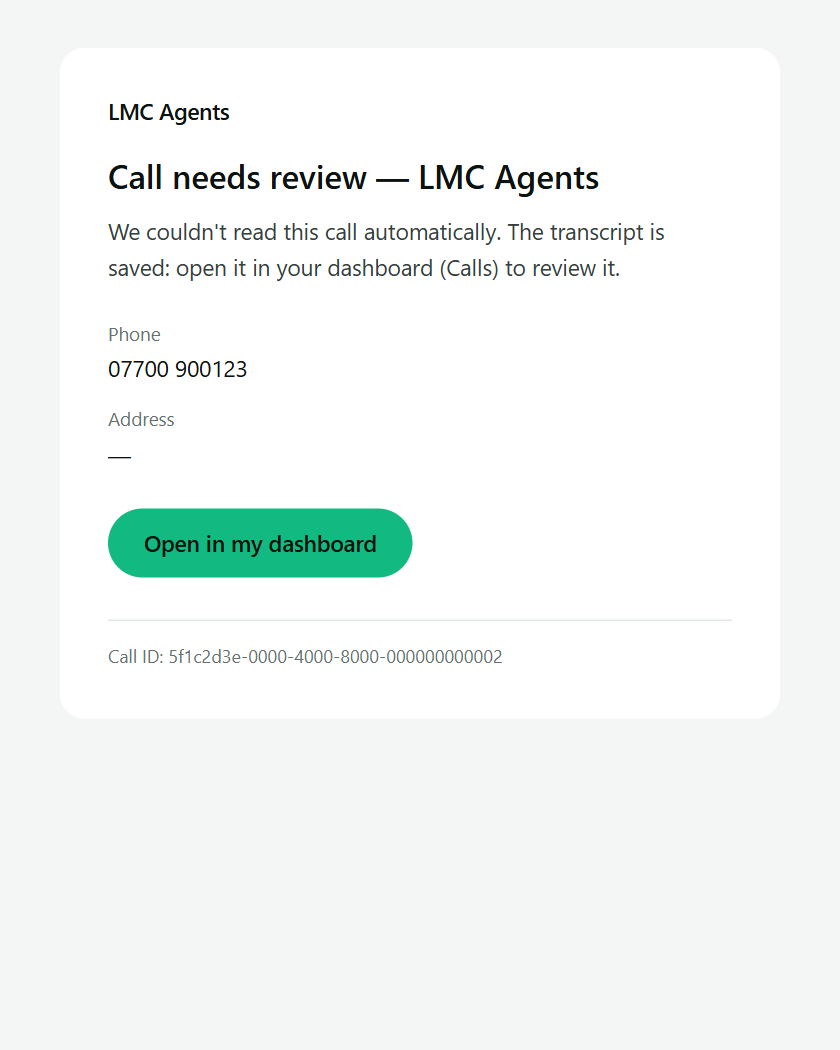
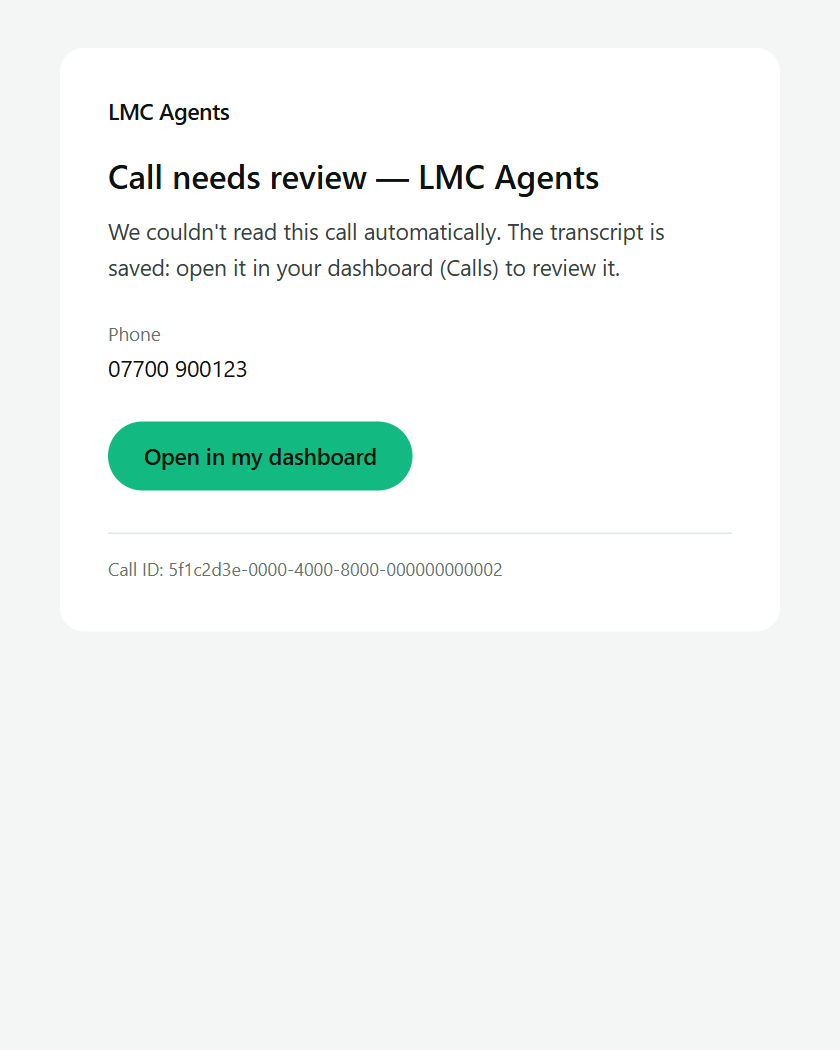
Review email: no Address row (nothing was extracted, it was always a dash)
The extraction-failed email drops the Address row in EN/ES/FR; the normal and urgent emails keep it. Test and the three needs-review previews updated (91 backend tests pass).

Changed region(s): [[0.1238, 0.3962, 0.5881, 0.5486], [0.1238, 0.6095, 0.5881, 0.64]]

diff --git a/docs/email-previews/fr-needs-review.html b/docs/email-previews/fr-needs-review.html
@@ -15,7 +15,7 @@
         
         <tr><td style="font-size:22px;font-weight:600;line-height:1.25;padding-bottom:10px;">Appel à vérifier — LMC Agents</td></tr>
         <tr><td style="font-size:15px;line-height:1.6;color:#33403b;padding-bottom:24px;">Nous n’avons pas pu analyser cet appel automatiquement. La transcription est enregistrée : ouvrez-la dans votre tableau de bord (Appels) pour la relire.</td></tr>
-        <tr><td style="padding-bottom:14px;"><div style="font-size:12.5px;line-height:1.4;color:#66726d;padding-bottom:3px;">Téléphone</div><div style="font-size:15px;line-height:1.55;color:#0b1210;">06 39 98 12 34</div></td></tr><tr><td style="padding-bottom:14px;"><div style="font-size:12.5px;line-height:1.4;color:#66726d;padding-bottom:3px;">Adresse</div><div style="font-size:15px;line-height:1.55;color:#0b1210;">—</div></td></tr>
+        <tr><td style="padding-bottom:14px;"><div style="font-size:12.5px;line-height:1.4;color:#66726d;padding-bottom:3px;">Téléphone</div><div style="font-size:15px;line-height:1.55;color:#0b1210;">06 39 98 12 34</div></td></tr>
         <tr><td style="padding-top:10px;padding-bottom:28px;"><a href="https://www.lmcagents.app/dashboard/calls/5f1c2d3e-0000-4000-8000-000000000002" style="display:inline-block;background:#12b981;color:#04140d;font-size:15px;font-weight:600;text-decoration:none;padding:13px 24px;border-radius:999px;">Ouvrir dans mon tableau de bord</a></td></tr>
         <tr><td style="font-size:12px;line-height:1.6;color:#66726d;border-top:1px solid #e1e8e4;padding-top:14px;">ID d'appel: 5f1c2d3e-0000-4000-8000-000000000002</td></tr>
       </table>

diff --git a/docs/email-previews/es-needs-review.html b/docs/email-previews/es-needs-review.html
@@ -15,7 +15,7 @@
         
         <tr><td style="font-size:22px;font-weight:600;line-height:1.25;padding-bottom:10px;">Llamada por revisar — LMC Agents</td></tr>
         <tr><td style="font-size:15px;line-height:1.6;color:#33403b;padding-bottom:24px;">No hemos podido leer esta llamada automáticamente. La transcripción está guardada: ábrela en tu panel (Llamadas) para revisarla.</td></tr>
-        <tr><td style="padding-bottom:14px;"><div style="font-size:12.5px;line-height:1.4;color:#66726d;padding-bottom:3px;">Teléfono</div><div style="font-size:15px;line-height:1.55;color:#0b1210;">+34 6•• ••• 482</div></td></tr><tr><td style="padding-bottom:14px;"><div style="font-size:12.5px;line-height:1.4;color:#66726d;padding-bottom:3px;">Dirección</div><div style="font-size:15px;line-height:1.55;color:#0b1210;">—</div></td></tr>
+        <tr><td style="padding-bottom:14px;"><div style="font-size:12.5px;line-height:1.4;color:#66726d;padding-bottom:3px;">Teléfono</div><div style="font-size:15px;line-height:1.55;color:#0b1210;">+34 6•• ••• 482</div></td></tr>
         <tr><td style="padding-top:10px;padding-bottom:28px;"><a href="https://www.lmcagents.app/dashboard/calls/5f1c2d3e-0000-4000-8000-000000000002" style="display:inline-block;background:#12b981;color:#04140d;font-size:15px;font-weight:600;text-decoration:none;padding:13px 24px;border-radius:999px;">Abrir en mi panel</a></td></tr>
         <tr><td style="font-size:12px;line-height:1.6;color:#66726d;border-top:1px solid #e1e8e4;padding-top:14px;">ID de llamada: 5f1c2d3e-0000-4000-8000-000000000002</td></tr>
       </table>

diff --git a/docs/email-previews/en-needs-review.html b/docs/email-previews/en-needs-review.html
@@ -15,7 +15,7 @@
         
         <tr><td style="font-size:22px;font-weight:600;line-height:1.25;padding-bottom:10px;">Call needs review — LMC Agents</td></tr>
         <tr><td style="font-size:15px;line-height:1.6;color:#33403b;padding-bottom:24px;">We couldn't read this call automatically. The transcript is saved: open it in your dashboard (Calls) to review it.</td></tr>
-        <tr><td style="padding-bottom:14px;"><div style="font-size:12.5px;line-height:1.4;color:#66726d;padding-bottom:3px;">Phone</div><div style="font-size:15px;line-height:1.55;color:#0b1210;">07700 900123</div></td></tr><tr><td style="padding-bottom:14px;"><div style="font-size:12.5px;line-height:1.4;color:#66726d;padding-bottom:3px;">Address</div><div style="font-size:15px;line-height:1.55;color:#0b1210;">—</div></td></tr>
+        <tr><td style="padding-bottom:14px;"><div style="font-size:12.5px;line-height:1.4;color:#66726d;padding-bottom:3px;">Phone</div><div style="font-size:15px;line-height:1.55;color:#0b1210;">07700 900123</div></td></tr>
         <tr><td style="padding-top:10px;padding-bottom:28px;"><a href="https://www.lmcagents.app/dashboard/calls/5f1c2d3e-0000-4000-8000-000000000002" style="display:inline-block;background:#12b981;color:#04140d;font-size:15px;font-weight:600;text-decoration:none;padding:13px 24px;border-radius:999px;">Open in my dashboard</a></td></tr>
         <tr><td style="font-size:12px;line-height:1.6;color:#66726d;border-top:1px solid #e1e8e4;padding-top:14px;">Call ID: 5f1c2d3e-0000-4000-8000-000000000002</td></tr>
       </table>

diff --git a/backend/tests/test_address.py b/backend/tests/test_address.py
@@ -137,14 +137,15 @@ class AddressInTheEmail(unittest.TestCase):
         self.assertRegex(h, r">Address</div><div[^>]*>—</div>")
         self.assertNotIn("google.com/maps", h)
 
-    def test_the_extraction_failed_email_keeps_the_same_row(self):
+    def test_the_extraction_failed_email_has_no_address_row(self):
+        # nothing was extracted, so the row would always be a dash: it is left out, in every language
         for lang, label, maps in (("en", "Address", "Open in Maps"), ("es", "Dirección", "Abrir en Maps"), ("fr", "Adresse", "Ouvrir dans Maps")):
             _, h = notify.render_review_email({**BUSINESS, "language": lang}, "call-2", "+33600000001")
-            self.assertRegex(h, rf">{label}</div><div[^>]*>—</div>")  # nothing was extracted: a dash
-            _, h = notify.render_review_email({**BUSINESS, "language": lang}, "call-2", "+33600000001", address=ADDRESS)
-            self.assertIn(ADDRESS, h)
-            self.assertIn(maps, h)
-            self.assertIn("google.com/maps/search/?api=1&amp;query=12%20rue", h)
+            self.assertNotIn(f">{label}</div>", h)
+            self.assertNotIn(maps, h)
+            self.assertNotIn("google.com/maps", h)
+            self.assertIn("+33600000001", h)  # the phone row and the dashboard button are still there
+            self.assertIn("/dashboard/calls/call-2", h)
 
     def test_the_address_is_escaped(self):
         h = self.html("en", '<script>alert(1)</script> "x"')

diff --git a/backend/app/services/notify.py b/backend/app/services/notify.py
@@ -174,14 +174,14 @@ def render_owner_email(business: dict, extracted, call_id: str, caller_phone_ove
     return subject, html_body
 
 
-def render_review_email(business: dict, call_id: str, caller_phone: str | None = None, address: str | None = None) -> tuple[str, str]:
+def render_review_email(business: dict, call_id: str, caller_phone: str | None = None) -> tuple[str, str]:
     """(subject, html) for a call that could not be read at all. Nothing was extracted, so
-    the address is normally a dash; the row is kept so both emails have the same fields."""
+    this email has no address row (it would always be a dash)."""
     s = _STRINGS.get(business.get("language") or "es", _STRINGS["es"])
     biz_name = _esc(business.get("name"))
     html_body = _layout(
         s, f"{s['review_subject']} — {biz_name}", _esc(s["review_subject"]), s["review_body"],
-        [(s["label_phone"], _esc(caller_phone)), (s["label_address"], _address_html(s, address))], call_id,
+        [(s["label_phone"], _esc(caller_phone))], call_id,
     )
     return f"{s['review_subject']} — {business.get('name')}", html_body
 
